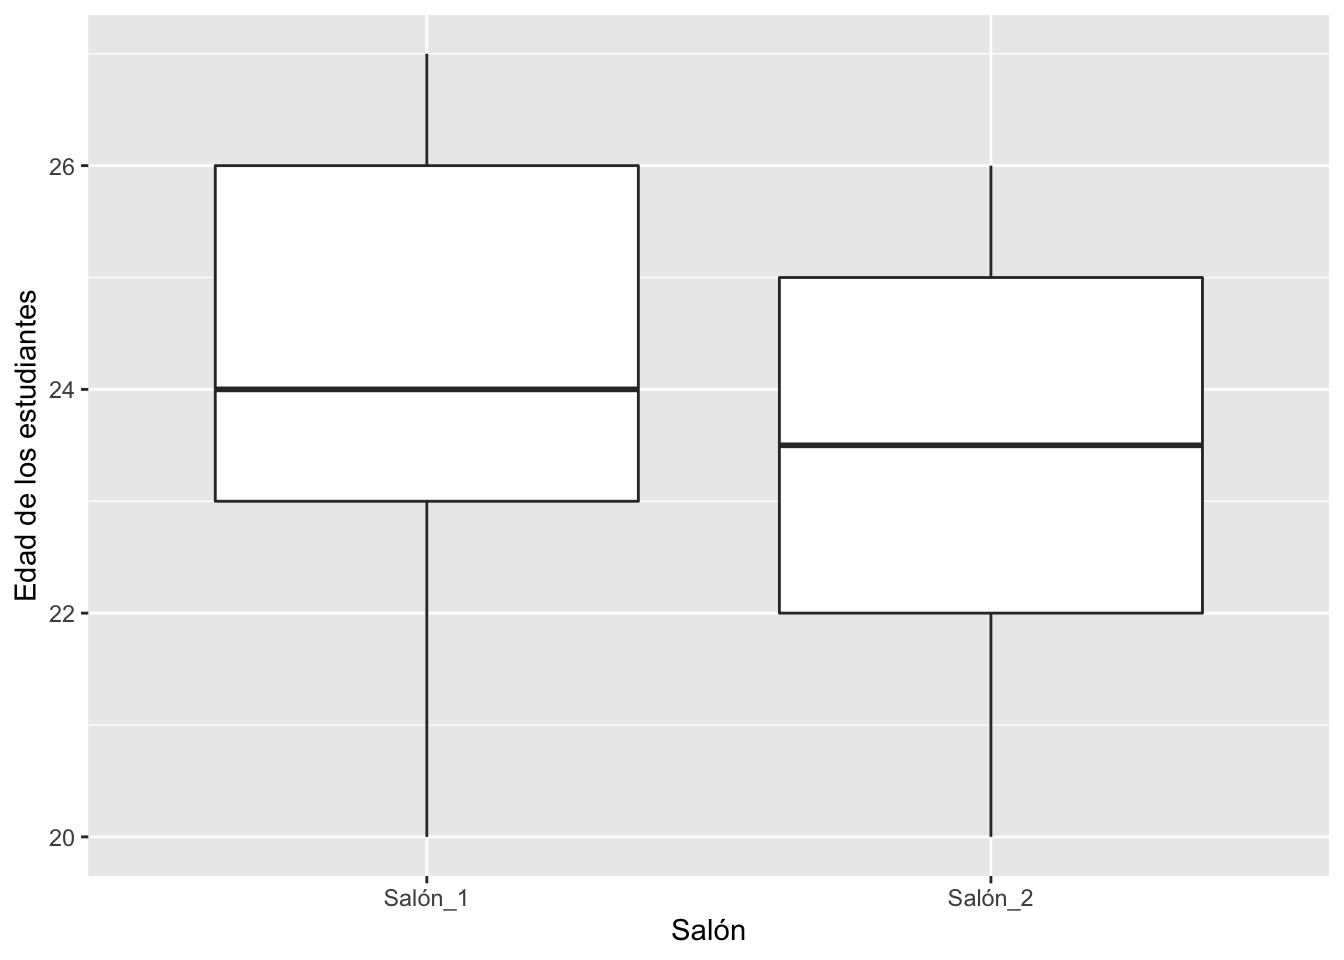
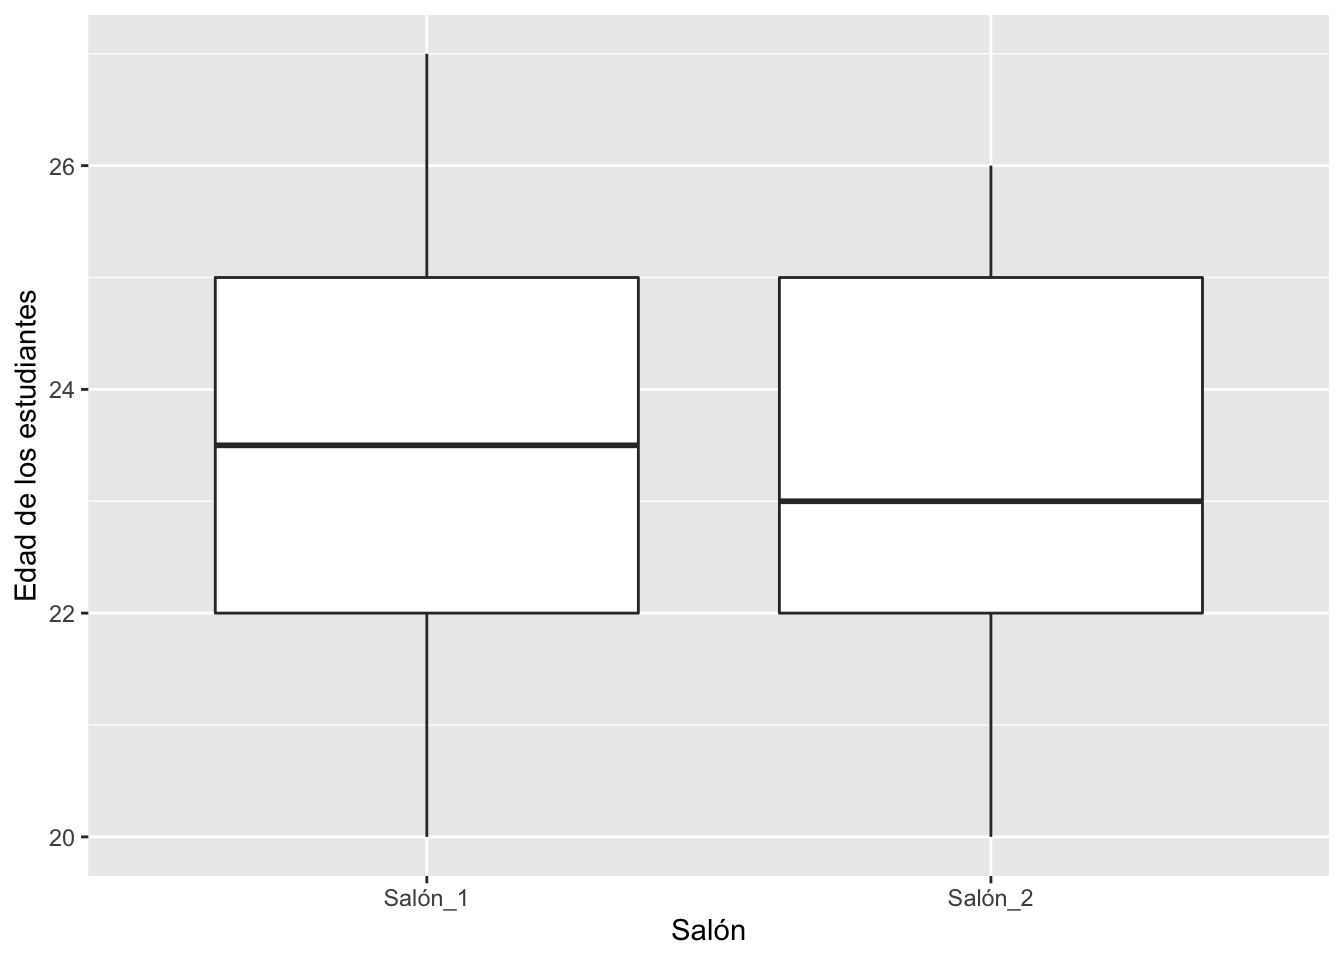
Leves ediciones a G1

diff --git a/G1-ggplot2.html b/G1-ggplot2.html
@@ -520,17 +520,17 @@ div.tocify {
 <p>Veamos un ejemplo. Si uno lista las edades de estudiantes universitarios de dos salones, tendremos el reto de intentar discernir si sus edades son aproximadamente iguales o diferentes solo al mirar la lista. ¿Será posible? A ver, intenta explicar cuál es la diferencia (si existe alguna) en las edades de las dos listas siguientes.</p>
 <p>Edades del salón 1:</p>
 <pre><code>## $V1
-##   [1] 23 25 24 27 24 20 21 25 26 23 25 26 25 24 23 20 26 24 24 24 24 20 20 25 25
-##  [26] 20 23 23 25 22 23 20 23 20 23 21 24 27 27 26 23 26 20 21 20 26 26 26 25 21
-##  [51] 25 25 21 27 23 22 23 26 27 27 26 25 22 25 25 25 24 24 21 26 24 23 23 27 27
-##  [76] 27 25 22 26 26 25 21 27 27 21 20 24 26 24 26 23 21 20 23 23 23 25 25 27 25</code></pre>
+##   [1] 25 27 24 22 25 24 23 25 21 25 25 27 22 20 27 20 25 23 24 25 22 21 22 24 27
+##  [26] 25 24 23 21 22 21 22 25 22 21 20 20 20 20 27 21 24 24 26 20 21 26 27 24 21
+##  [51] 27 27 22 25 26 23 27 26 22 21 24 26 23 27 26 24 27 23 22 24 24 22 20 20 23
+##  [76] 27 25 23 22 20 20 25 22 27 22 20 26 21 24 23 26 21 26 24 25 23 23 22 23 25</code></pre>
 <hr />
 <p>Edades del salón 2:</p>
 <pre><code>## $V1
-##   [1] 25 26 26 24 24 22 24 25 20 20 23 26 25 23 26 26 20 26 23 21 22 24 26 25 23
-##  [26] 26 24 25 24 20 23 20 23 23 23 22 26 25 24 24 26 24 25 23 25 20 25 26 22 22
-##  [51] 20 23 23 22 23 25 22 24 20 24 26 21 23 24 20 21 26 21 20 25 23 25 25 24 21
-##  [76] 26 26 21 26 22 24 26 26 25 24 22 22 20 24 21 20 24 24 22 23 22 20 21 23 22</code></pre>
+##   [1] 23 21 22 20 23 23 26 21 22 20 26 24 23 26 25 25 25 26 22 23 21 21 23 23 22
+##  [26] 22 21 25 25 22 20 22 20 24 23 21 23 23 22 26 23 25 23 25 20 26 24 26 23 25
+##  [51] 22 24 23 20 23 24 23 21 26 23 21 21 20 22 21 20 22 26 26 23 26 25 24 20 23
+##  [76] 24 24 24 24 24 25 21 23 24 24 22 26 22 20 22 25 20 23 23 25 26 23 26 23 22</code></pre>
 <p>Probablemente notes que no es evidente a primera vista cuál es la diferencia entre las dos listas de datos. Necesitamos ayuda para visualizar la diferencia. A continuación se explican un par de maneras de ver esa misma información.</p>
 <hr />
 <div id="resumir-la-información-en-tablas" class="section level2">
@@ -901,13 +901,13 @@ df%&gt;%
   <tbody class="gt_table_body">
     <tr>
       <td class="gt_row gt_left">Salón_1</td>
-      <td class="gt_row gt_right">23.89</td>
+      <td class="gt_row gt_right">23.48</td>
       <td class="gt_row gt_center">20</td>
       <td class="gt_row gt_center">27</td>
     </tr>
     <tr>
       <td class="gt_row gt_left">Salón_2</td>
-      <td class="gt_row gt_right">23.32</td>
+      <td class="gt_row gt_right">23.09</td>
       <td class="gt_row gt_center">20</td>
       <td class="gt_row gt_center">26</td>
     </tr>
@@ -937,7 +937,7 @@ Figura: Diagrama de Caja
 <div id="campaña-de-napoleón" class="section level2">
 <h2>1. Campaña de Napoleón</h2>
 <p>Charles Joseph Minard (1781-1870; Francia) es una de las personas que contribuyó al desarrollo del tema que hoy día se conoce como <strong>gráficas informativas</strong> (o <em>Information Graphics</em> en inglés). Él se reconoce por sus innovaciones al utilizar gráficos para demostrar patrones. El gráfico más famoso creado por este señor fue sobre la campaña de guerra de Napoleón para invadir a Rusia (1812-1813), explicado a continuación.</p>
-<p>En la ilustración <strong>Mapa: Campaña de Napoleón</strong> podemos apreciar el movimiento de la campaña de Napoleón para invadir a Rusia. El movimiento de ida está representado con la cantidad de hombres que comenzaron el camino hacia Rusia hasta Moscú (<span style="color: brown;">la barra de color marrón</span>), y el viaje de regreso con la barra de color <strong>negro</strong>. El ancho de cada barra representa la cantidad de hombres presentes en el ejercicio militar. Los datos históricos comprueban que cuando comenzaron la campaña militar (saliendo de París) eran más de 422,000 soldados, al llegar a Moscú ya eran solamente 100,000 soldados, y cuando finalmente regresaron a París, luego de haber intentado invadir a Rusia, Napoleón tenía solamente 10,000 soldados con él.</p>
+<p>En la ilustración <strong>Mapa: Campaña de Napoleón</strong> podemos apreciar el movimiento de la campaña de Napoleón para invadir a Rusia. El movimiento de ida está representado con la cantidad de hombres que comenzaron el camino hacia Rusia hasta Moscú (<span style="color: brown;">la barra de color marrón</span>), y el viaje de regreso con la barra de color <strong>negro</strong>. El ancho de cada barra representa la cantidad de hombres presentes en el ejercicio militar. Los datos históricos comprueban que cuando comenzaron la campaña militar (saliendo de París) eran más de 422 mil soldados, al llegar a Moscú ya eran solamente 100 mil soldados, y cuando finalmente regresaron a París, luego de haber intentado infructuosamente de conquistar a Rusia, Napoleón tenía solamente 10 mil soldados con él.</p>
 <p>Observemos el gráfico debajo de las barras. Este representa la temperatura al regresar de Moscú. Se puede observar que a la vez que bajaba la temperatura, más y más de los soldados fallecían. Podemos concluir, entonces, que la mortandad en gran parte se debió a no estar preparados para el frío. Vale hacer notar que la escala de temperatura en aquel entonces no era de Celcios ni de Farenheit. La escala ilustrada se llama <strong>Réaumus</strong>, que presentaba un punto de congelación y de ebullición de 0° y 80° respectivamente. Esa escala se usó en múltiples países de Europa hasta mediados del Siglo XIX.</p>
 <div class="figure" style="text-align: center">
 <img src="Graficos/Carte_Napoleon.png" alt="Mapa: Campaña de Napoleón" width="80%" />
